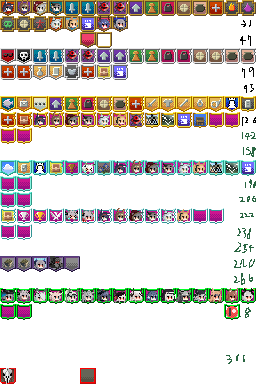
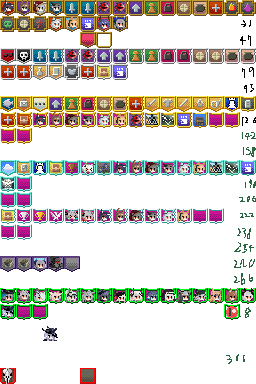
스킨작업 및 최후기사

Changed region(s): [[0.125, 0.7812, 0.2188, 0.9062], [0.0, 0.7812, 0.0625, 0.8438], [0.0, 0.4688, 0.0625, 0.5]]

diff --git a/Arrrknights/core/src/main/java/com/shatteredpixel/shatteredpixeldungeon/sprites/Last_knightSprite.java b/Arrrknights/core/src/main/java/com/shatteredpixel/shatteredpixeldungeon/sprites/Last_knightSprite.java
@@ -1,0 +1,50 @@
+/*
+ * Pixel Dungeon
+ * Copyright (C) 2012-2015 Oleg Dolya
+ *
+ * Shattered Pixel Dungeon
+ * Copyright (C) 2014-2021 Evan Debenham
+ *
+ * This program is free software: you can redistribute it and/or modify
+ * it under the terms of the GNU General Public License as published by
+ * the Free Software Foundation, either version 3 of the License, or
+ * (at your option) any later version.
+ *
+ * This program is distributed in the hope that it will be useful,
+ * but WITHOUT ANY WARRANTY; without even the implied warranty of
+ * MERCHANTABILITY or FITNESS FOR A PARTICULAR PURPOSE.  See the
+ * GNU General Public License for more details.
+ *
+ * You should have received a copy of the GNU General Public License
+ * along with this program.  If not, see <http://www.gnu.org/licenses/>
+ */
+
+package com.shatteredpixel.shatteredpixeldungeon.sprites;
+
+import com.shatteredpixel.shatteredpixeldungeon.Assets;
+import com.watabou.noosa.TextureFilm;
+
+public class Last_knightSprite extends MobSprite {
+
+    public Last_knightSprite() {
+        super();
+
+        texture( Assets.Sprites.LAST_KNIGHT );
+
+        TextureFilm frames = new TextureFilm( texture, 98, 56 );
+
+        idle = new Animation( 8, true );
+        idle.frames( frames, 0, 1, 2, 3, 4, 5 );
+
+        run = new Animation( 10, true );
+        run.frames( frames, 6, 7, 8, 9, 10, 11, 12, 13 );
+
+        attack = new Animation( 15, false );
+        attack.frames( frames, 14, 15, 16, 17, 18, 19, 20, 21, 22, 23 );
+
+        die = new Animation( 8, false );
+        die.frames( frames, 0 );
+
+        play( idle );
+    }
+}

diff --git a/Arrrknights/core/src/main/java/com/shatteredpixel/shatteredpixeldungeon/sprites/Last_knight2Sprite.java b/Arrrknights/core/src/main/java/com/shatteredpixel/shatteredpixeldungeon/sprites/Last_knight2Sprite.java
@@ -1,0 +1,50 @@
+/*
+ * Pixel Dungeon
+ * Copyright (C) 2012-2015 Oleg Dolya
+ *
+ * Shattered Pixel Dungeon
+ * Copyright (C) 2014-2021 Evan Debenham
+ *
+ * This program is free software: you can redistribute it and/or modify
+ * it under the terms of the GNU General Public License as published by
+ * the Free Software Foundation, either version 3 of the License, or
+ * (at your option) any later version.
+ *
+ * This program is distributed in the hope that it will be useful,
+ * but WITHOUT ANY WARRANTY; without even the implied warranty of
+ * MERCHANTABILITY or FITNESS FOR A PARTICULAR PURPOSE.  See the
+ * GNU General Public License for more details.
+ *
+ * You should have received a copy of the GNU General Public License
+ * along with this program.  If not, see <http://www.gnu.org/licenses/>
+ */
+
+package com.shatteredpixel.shatteredpixeldungeon.sprites;
+
+import com.shatteredpixel.shatteredpixeldungeon.Assets;
+import com.watabou.noosa.TextureFilm;
+
+public class Last_knight2Sprite extends MobSprite {
+
+    public Last_knight2Sprite() {
+        super();
+
+        texture( Assets.Sprites.LAST_KNIGHT2 );
+
+        TextureFilm frames = new TextureFilm( texture, 98, 56 );
+
+        idle = new Animation( 8, true );
+        idle.frames( frames, 0 );
+
+        run = new Animation( 10, true );
+        run.frames( frames, 0 );
+
+        attack = new Animation( 15, false );
+        attack.frames( frames, 0 );
+
+        die = new Animation( 8, false );
+        die.frames( frames, 0 );
+
+        play( idle );
+    }
+}

diff --git a/Arrrknights/core/src/main/java/com/shatteredpixel/shatteredpixeldungeon/Badges.java b/Arrrknights/core/src/main/java/com/shatteredpixel/shatteredpixeldungeon/Badges.java
@@ -246,6 +246,7 @@ public class Badges {
 		SKIN_TOMIMI(300, false, true),
 		SKIN_FRANKA(302, false, true),
 		SKIN_WEEDY(303, false, true),
+		SKIN_GLADIIA(304, false, true),
 
 		//기타
 		SUPPORT;
@@ -1138,7 +1139,12 @@ public class Badges {
 	}
 
 	public static void validateweedyskin() {
-		Badge badge = Badge.SKIN_FRANKA;
+		Badge badge = Badge.SKIN_WEEDY;
+		displayBadge( badge );
+	}
+
+	public static void validategladiiaskin() {
+		Badge badge = Badge.SKIN_GLADIIA;
 		displayBadge( badge );
 	}
 
@@ -1209,6 +1215,7 @@ public class Badges {
 			Badges.validateschwazrskin();
 			Badges.validatearchskin();
 			Badges.validatefrankaskin();
+			Badges.validategladiiaskin();
 		}
 
 		// 배지 파괴 후, 조건에 맞는 배지는 다시 획득합니다.
@@ -1227,6 +1234,7 @@ public class Badges {
 		if(!Badges.isUnlocked(Badge.SKIN_ARCH) && Badges.isUnlocked(Badge.GREY_CHAMPION1)) { Badges.validatearchskin();}
 		if(!Badges.isUnlocked(Badge.SKIN_TOMIMI) && Badges.isUnlocked(Badge.GAVIAL_PART2)) { Badges.validatetomimiskin();}
 		if(!Badges.isUnlocked(Badge.SKIN_FRANKA) && Badges.isUnlocked(Badge.USE_HEALBOX)) { Badges.validatefrankaskin();}
+		if(!Badges.isUnlocked(Badge.SKIN_GLADIIA) && Badges.isUnlocked(Badge.GAMES_PLAYED_1)) { Badges.validategladiiaskin();}
 	}
 
 	//necessary in order to display the happy end badge in the surface scene

diff --git a/Arrrknights/core/src/main/java/com/shatteredpixel/shatteredpixeldungeon/actors/mobs/npcs/Closure.java b/Arrrknights/core/src/main/java/com/shatteredpixel/shatteredpixeldungeon/actors/mobs/npcs/Closure.java
@@ -276,6 +276,18 @@ public class Closure extends NPC {
                                             GameScene.show(new WndMessage(Messages.get(Closure.class, "fail_skin15", Dungeon.hero.heroClass.title())));
                                         }});}
                                 break;*/
+                            case 16: // 글라디아 스킨
+                                if (Badges.isUnlocked(Badges.Badge.GAMES_PLAYED_1)) {
+                                    if(!Badges.isUnlocked(Badges.Badge.SKIN_GLADIIA)) {Badges.validategladiiaskin();}
+                                    sprite.showStatus( CharSprite.POSITIVE, Messages.get(this, "hi"));
+                                    break;
+                                } else {sprite.showStatus( CharSprite.NEGATIVE, Messages.get(this, "no"));
+                                    Game.runOnRenderThread(new Callback() {
+                                        @Override
+                                        public void call() {
+                                            GameScene.show(new WndMessage(Messages.get(Closure.class, "fail_skin16", Dungeon.hero.heroClass.title())));
+                                        }});}
+                                break;
 
                         }
                     }

diff --git a/Arrrknights/core/src/main/java/com/shatteredpixel/shatteredpixeldungeon/sprites/skins/GladiiaSprite.java b/Arrrknights/core/src/main/java/com/shatteredpixel/shatteredpixeldungeon/sprites/skins/GladiiaSprite.java
@@ -1,0 +1,41 @@
+package com.shatteredpixel.shatteredpixeldungeon.sprites.skins;
+
+import com.shatteredpixel.shatteredpixeldungeon.Assets;
+import com.shatteredpixel.shatteredpixeldungeon.sprites.MobSprite;
+import com.watabou.noosa.MovieClip;
+import com.watabou.noosa.TextureFilm;
+
+public class GladiiaSprite extends MobSprite {
+    public GladiiaSprite() {
+        super();
+
+        texture( Assets.Sprites.GLD );
+
+        TextureFilm frames = new TextureFilm( texture, 36, 36 );
+
+        idle = new MovieClip.Animation( 2, true );
+        idle.frames( frames, 50 );
+
+        run = new MovieClip.Animation( 15, false );
+        run.frames( frames, 50 );
+
+        attack = new MovieClip.Animation( 15, false );
+        attack.frames( frames, 50 );
+
+        zap = attack.clone();
+
+        die = new MovieClip.Animation( 8, false );
+        die.frames( frames, 50 );
+
+        alpha(0.5f);
+
+        play( idle.clone() );
+    }
+
+    @Override
+    public void idle() {
+        isMoving = false;
+        super.idle();
+    }
+
+}

diff --git a/Arrrknights/core/src/main/java/com/shatteredpixel/shatteredpixeldungeon/actors/mobs/npcs/SkinModel.java b/Arrrknights/core/src/main/java/com/shatteredpixel/shatteredpixeldungeon/actors/mobs/npcs/SkinModel.java
@@ -9,6 +9,7 @@ import com.shatteredpixel.shatteredpixeldungeon.sprites.skins.ArchSkinSprite;
 import com.shatteredpixel.shatteredpixeldungeon.sprites.skins.AstesiaSprite;
 import com.shatteredpixel.shatteredpixeldungeon.sprites.skins.FrankaSprite;
 import com.shatteredpixel.shatteredpixeldungeon.sprites.skins.FrostLeafSprite;
+import com.shatteredpixel.shatteredpixeldungeon.sprites.skins.GladiiaSprite;
 import com.shatteredpixel.shatteredpixeldungeon.sprites.skins.GraniSprite;
 import com.shatteredpixel.shatteredpixeldungeon.sprites.JessiSprite;
 import com.shatteredpixel.shatteredpixeldungeon.sprites.skins.LappySprite;
@@ -65,6 +66,8 @@ public class SkinModel extends NPC {
            case 14: spriteClass= FrankaSprite.class;
                break;
            case 15: spriteClass= WeedySkinSprite.class;
+               break;
+           case 16: spriteClass= GladiiaSprite.class;
                break;
 
        }

diff --git a/Arrrknights/core/src/main/java/com/shatteredpixel/shatteredpixeldungeon/Assets.java b/Arrrknights/core/src/main/java/com/shatteredpixel/shatteredpixeldungeon/Assets.java
@@ -483,6 +483,9 @@ public class Assets {
 		public static final String MULA_BODY	= "sprites/mula_2.png";
 		public static final String MULA_TAIL	= "sprites/mula_3.png";
 
+		public static final String LAST_KNIGHT	= "sprites/last_knights.png";
+		public static final String LAST_KNIGHT2	= "sprites/last_knights2.png";
+
 
 
 
@@ -556,5 +559,6 @@ public class Assets {
 		public static final String TMM	= "sprites/tomimi_skin.png";
 		public static final String FRK	= "sprites/franka.png";
 		public static final String WED	= "sprites/weedy_skin.png";
+		public static final String GLD	= "sprites/gladiia.png";
 	}
 }

diff --git a/Arrrknights/core/src/main/java/com/shatteredpixel/shatteredpixeldungeon/sprites/HandclapSprite.java b/Arrrknights/core/src/main/java/com/shatteredpixel/shatteredpixeldungeon/sprites/HandclapSprite.java
@@ -63,13 +63,13 @@ public class HandclapSprite extends MobSprite {
 		pump.frames( frames, 15, 16, 17, 18, 19 );
 
 		pumpAttack = new Animation ( 12, false );
-		pumpAttack.frames( frames, 15, 16, 17, 18, 19, 20, 21, 22, 23);
+		pumpAttack.frames( frames, 15, 16, 17, 18, 19, 20, 21, 22, 23, 24, 25, 26, 27);
 
 		attack = new Animation( 12, false );
 		attack.frames( frames, 15, 16, 17, 18, 19, 20, 21, 22, 23 );
 		
 		die = new Animation( 8, false );
-		die.frames( frames, 24, 25, 26, 27, 28, 29 );
+		die.frames( frames, 28, 29, 30, 31, 32, 33, 34, 35, 36 );
 		
 		play(idle);
 

diff --git a/Arrrknights/core/src/main/java/com/shatteredpixel/shatteredpixeldungeon/actors/hero/HeroClass.java b/Arrrknights/core/src/main/java/com/shatteredpixel/shatteredpixeldungeon/actors/hero/HeroClass.java
@@ -440,6 +440,7 @@ import org.omg.PortableServer.SERVANT_RETENTION_POLICY_ID;
 				case 14: return Assets.Sprites.TMM;
 				case 15: return Assets.Sprites.FRK;
 				case 16: return Assets.Sprites.WED;
+				case 17: return Assets.Sprites.GLD;
 			}
 		}
 		switch (this) {

diff --git a/Arrrknights/core/src/main/java/com/shatteredpixel/shatteredpixeldungeon/actors/hero/Hero.java b/Arrrknights/core/src/main/java/com/shatteredpixel/shatteredpixeldungeon/actors/hero/Hero.java
@@ -254,6 +254,7 @@ public class Hero extends Char {
     public static final int TOMIMI = 14;
     public static final int FRANKA = 15;
     public static final int WEEDY = 16;
+    public static final int GLADIIA = 17;
 
     {
         actPriority = HERO_PRIO;
